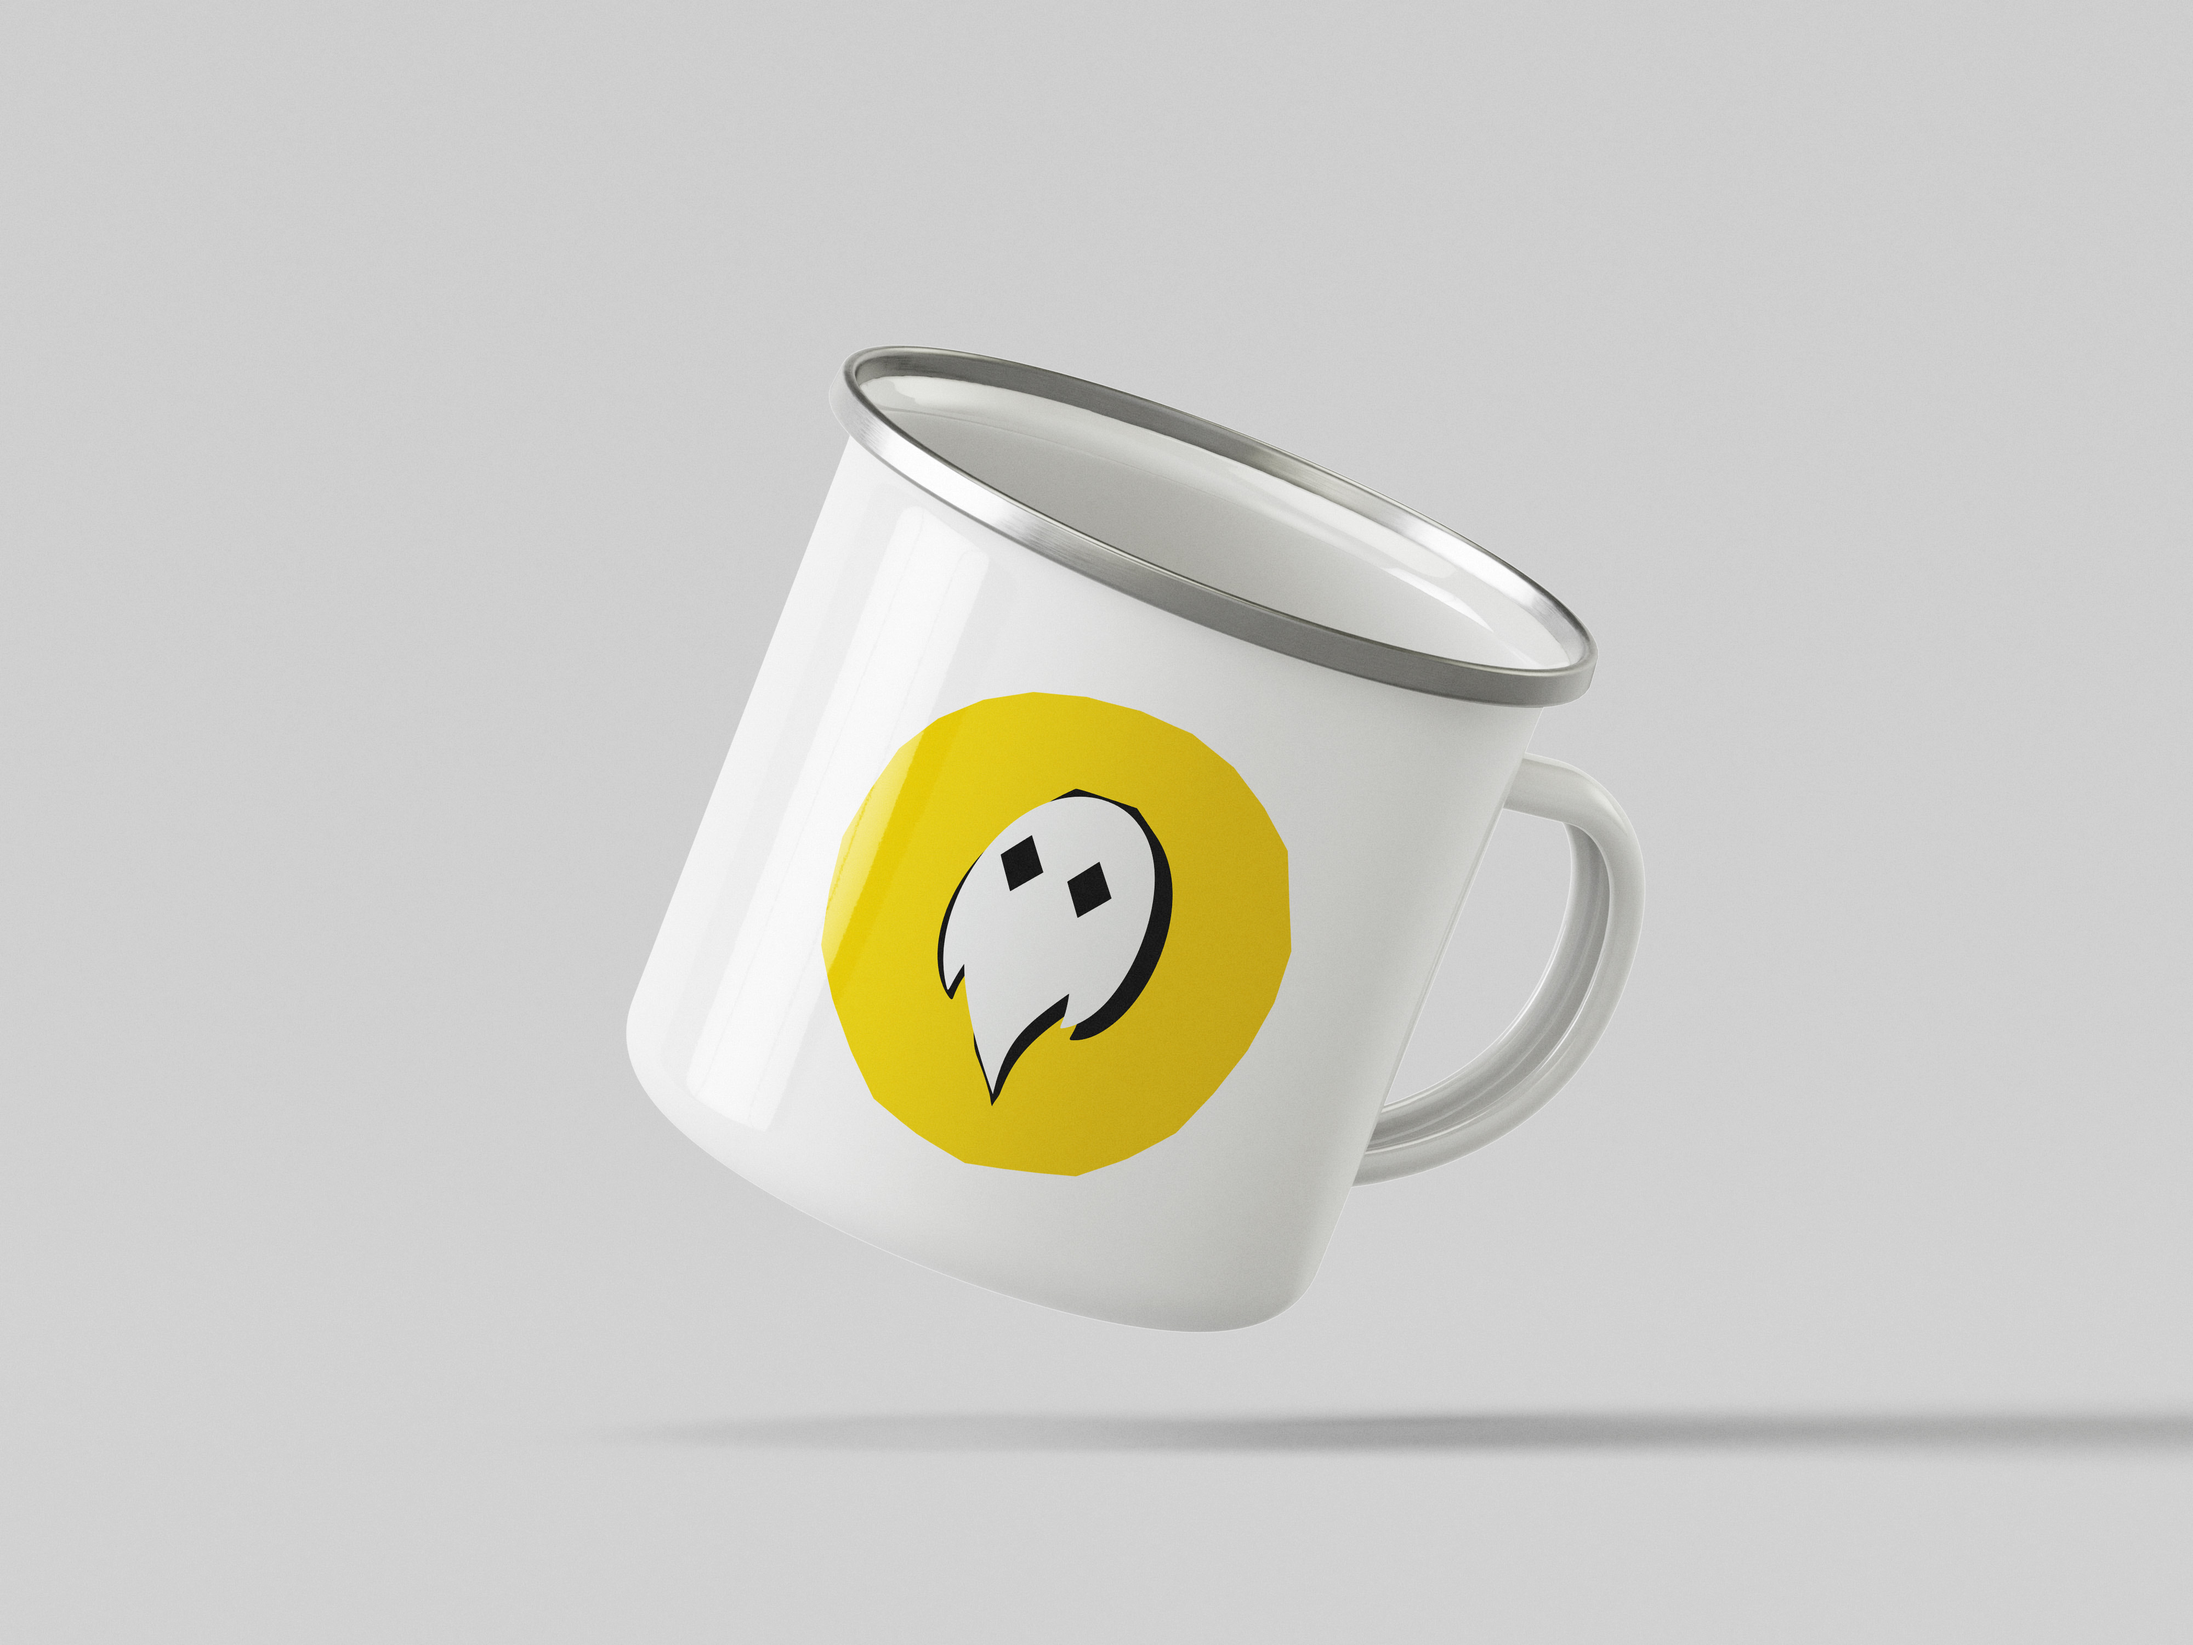
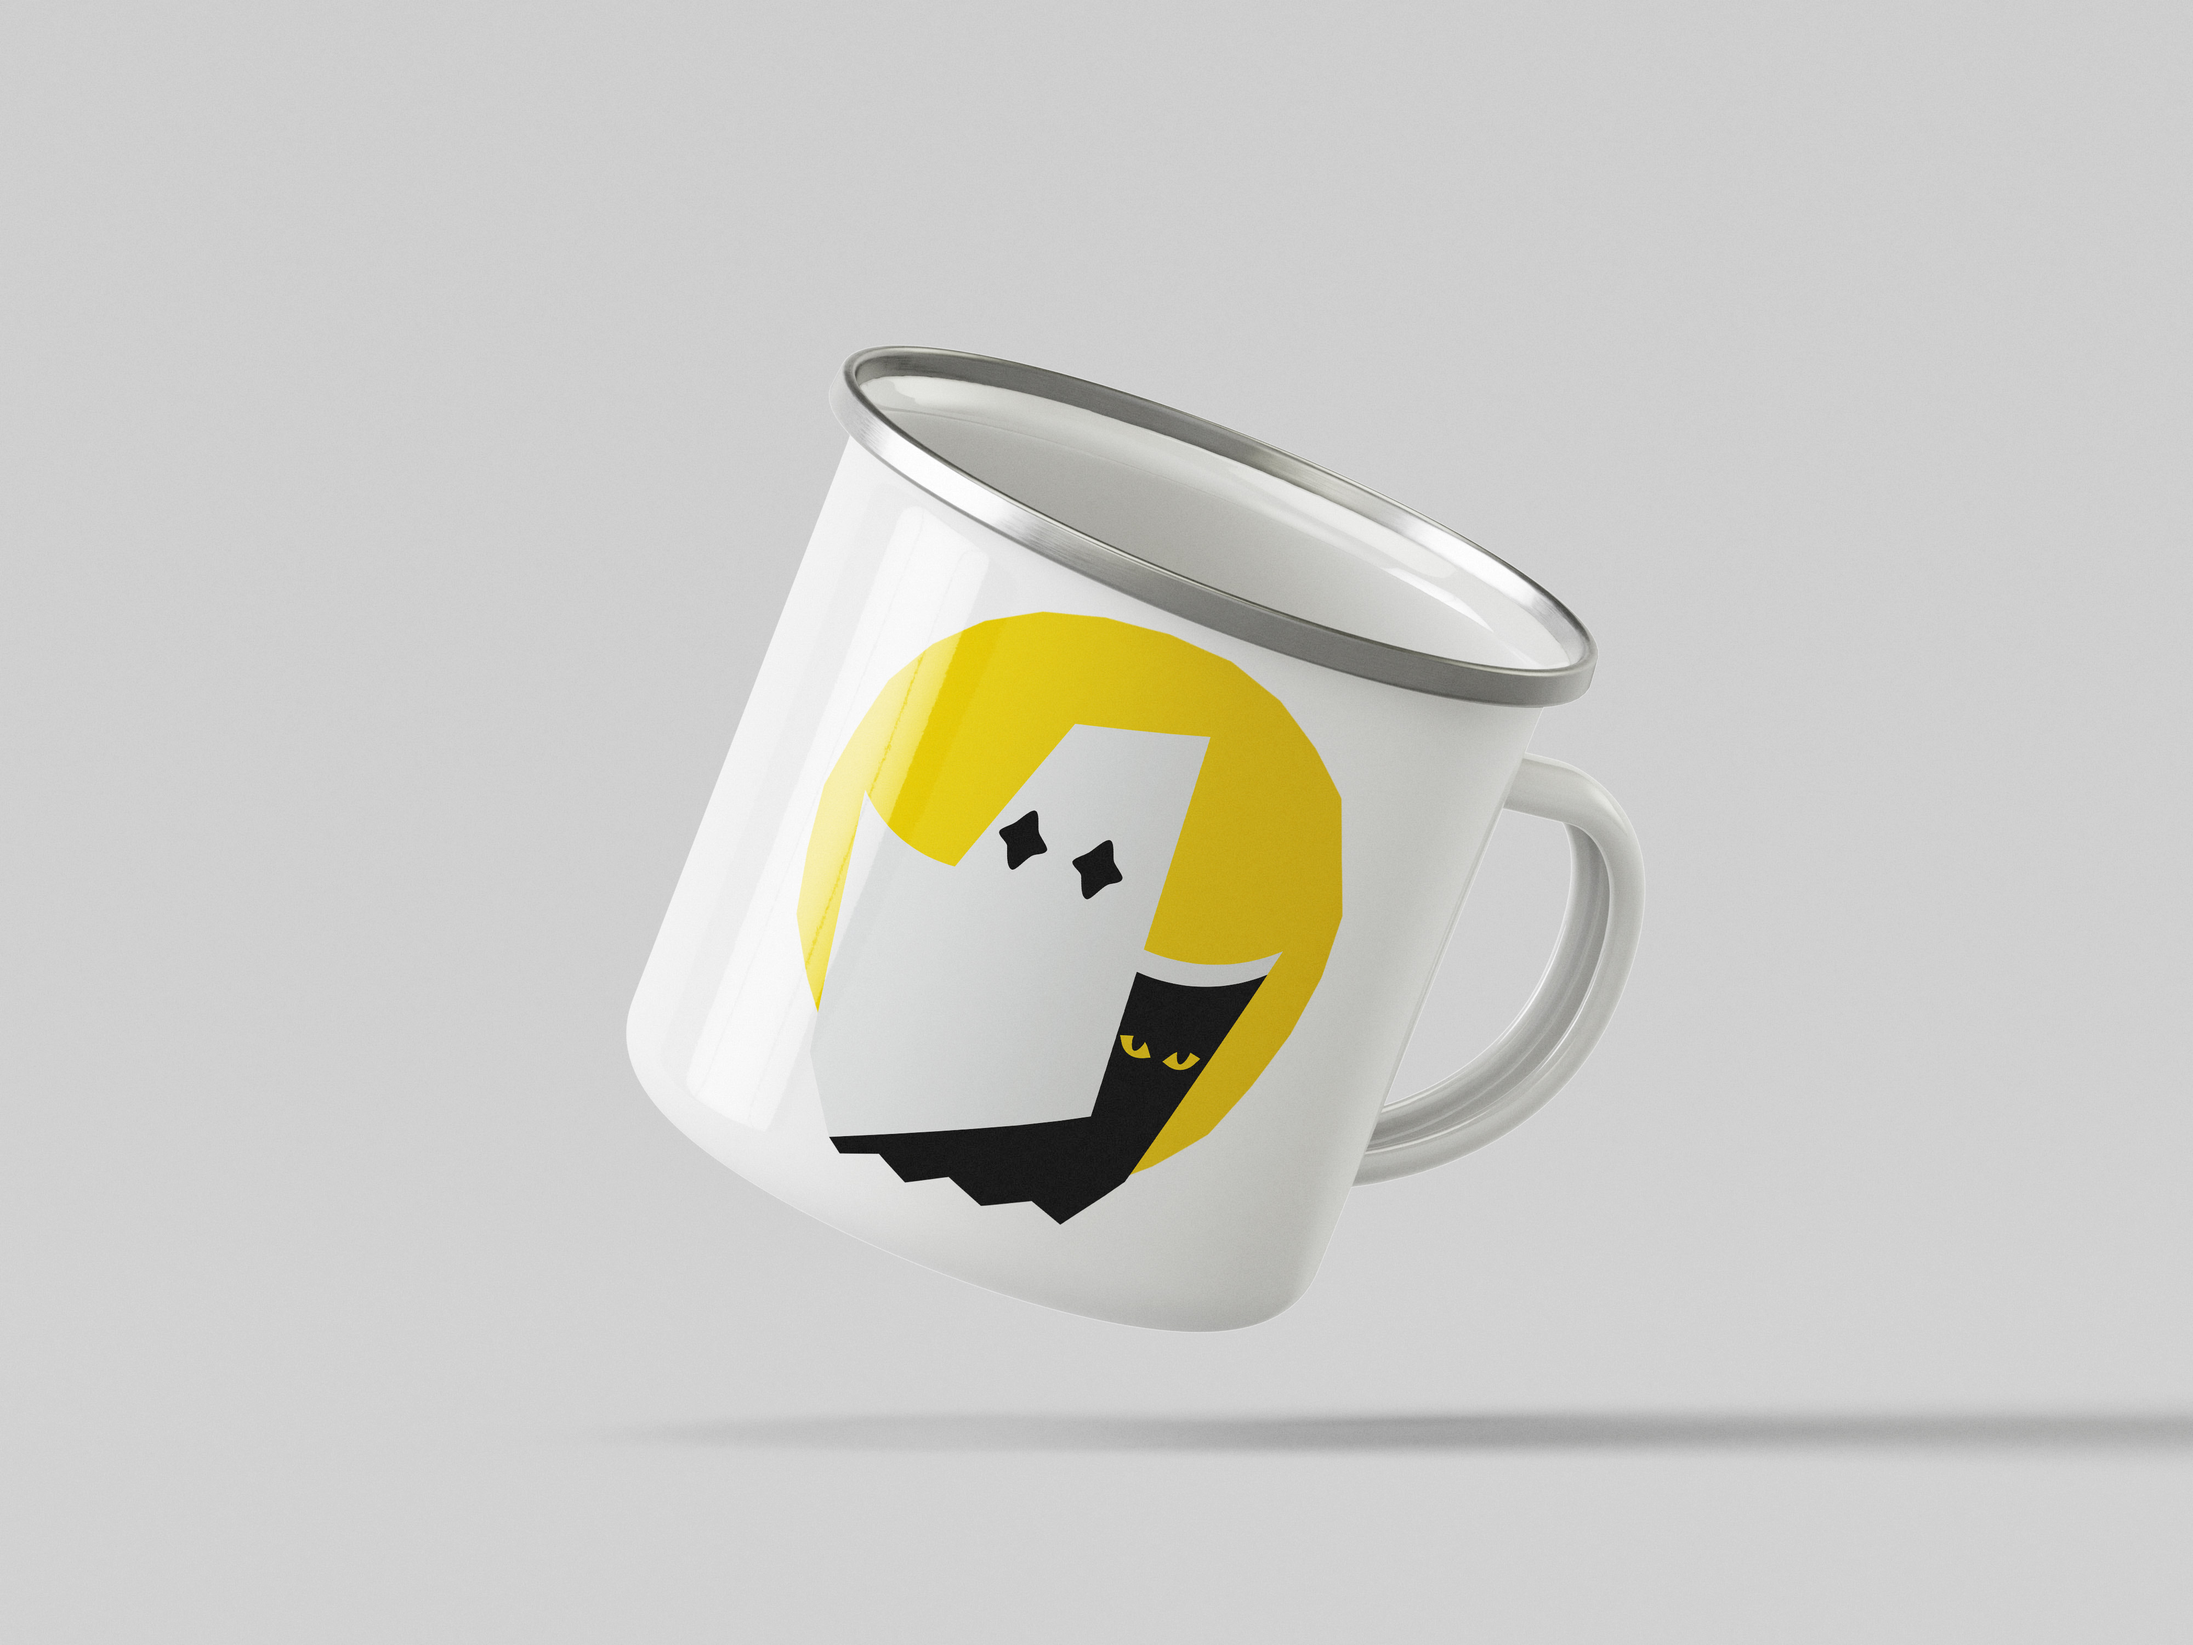
Add files via upload

Changed region(s): [[0.3438, 0.372, 0.625, 0.744]]

diff --git a/index.html b/index.html
@@ -444,7 +444,34 @@
                <!--- <div class="linebar1"></div> -->
 
         
-         
+           <div id="Hungry" class=" project">
+                   <div class=" w-col  ">
+                   <div class="title1">[Project]</div>
+                   <div class="project_name">Hungry Ghost <br> Coffee</div>
+                    <div class="project-year">2024</div>
+                 <div class="project-type">Logo Design</div>
+                <div class="project-type">Brand Identity</div>
+                   </div>
+
+                     <div class="w-col ">
+              <div class="title1">About</div>
+              <div class="project-descriptor">
+               The Hungry Ghost rebrand embodies a mystique of curiosity, indulgence, and a hint of playfulness. The logo design reflects these themes through clean, modern visuals, creating a timeless connection to the brand's ethos while thoughtfully addressing the needs and collaboration of the client (student).
+          </div>
+           </div>
+           </div>
+
+              <div class="main_content5">
+                <div class="picture_wrapper5">
+                  <!--- <img class="logo1" src="final brand logo.png"  alt="">-->
+                  <img id="media-thumb"  class="poster_mockup" src="hungry ghost coffee cup.jpg"  alt="">
+                 <!--- <img class="mockup-1" src="Sketches.png"  alt=""> --->
+                 <img id="media-thumb"  class="poster_mockup" src="HungryGhost_Enamelled_Mug.jpg"  alt="">
+                <img id="media-thumb"  class="logo2" src="hungry ghost singular logo.png"  alt="">
+              <img id="media-thumb"  class="palette" src="HG_ColorPalette.png"  alt="">
+              <!--<img id="media-thumb"  class="palette" src="HG_Type.png"  alt=""> --->
+            </div>
+          </div>   
 
          <!---- <div id="SlowDown" class=" project">
             <div class=" w-col  ">
@@ -453,7 +480,7 @@
             </div>
             <div class="w-col ">
             <div class="title1">Type</div>
-            <div class="project-descriptor">Logo & Re-Branding</div>
+            <div class="project-descriptor">Hungry Ghost <br> Coffee& Re-Branding</div>
             <div class="title1">Year</div>
             <div class="project-descriptor">2024</div>
             </div>
@@ -483,6 +510,13 @@
             </div>
           </div>   
           --->
+
+            <div class="dots">
+               <span class="dot"></span>
+               <span class="dot"></span>
+               <span class="dot"></span>
+               </div>
+
 
                 <div id="SWF" class=" project">
                   <div class=" w-col  ">
